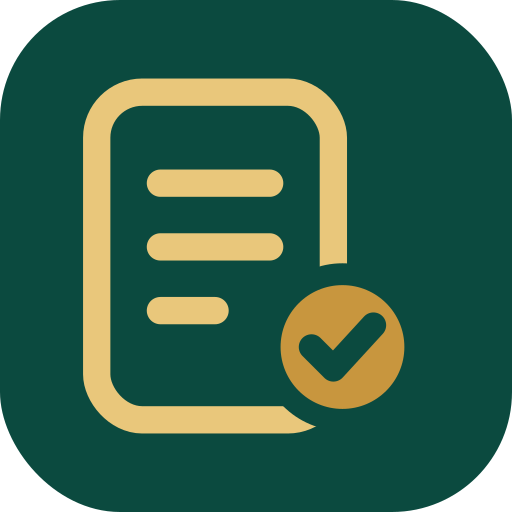
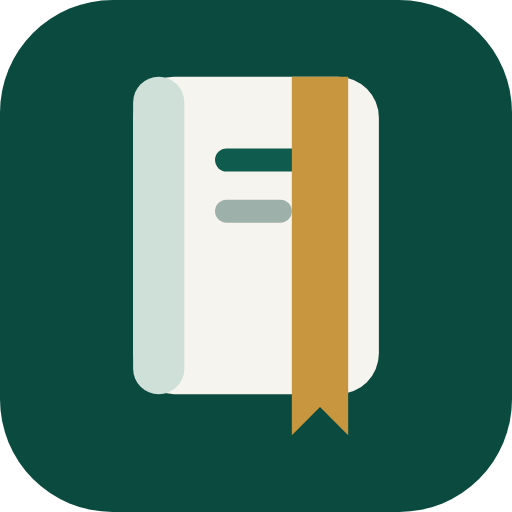
فواتير وديون 1.0.1: أيقونة جديدة، ملف التحميل Fawater-wa-Duyoon.apk، رسالة السعر بالاسم الجديد

diff --git a/debtbook/index.html b/debtbook/index.html
@@ -27,7 +27,7 @@
     <h1>فواتير وديون</h1>
     <p class="lead">بدّل دفتر الورق بتطبيق بيحسبلك كلشي: ديون الزبائن والموزعين بالدولار والليرة السورية والتركية، والفواتير والكشوفات PDF جاهزة للإرسال على واتساب.</p>
     <div class="actions">
-      <a class="btn btn-gold" id="dl" href="https://github.com/yasserninal120/yasserninal120.github.io/releases/latest/download/debtbook.apk">
+      <a class="btn btn-gold" id="dl" href="https://github.com/yasserninal120/yasserninal120.github.io/releases/latest/download/Fawater-wa-Duyoon.apk">
         <svg width="20" height="20" viewBox="0 0 24 24" fill="none" stroke="currentColor" stroke-width="2.2" stroke-linecap="round" stroke-linejoin="round"><path d="M12 4v11M7 10l5 5 5-5M5 20h14"/></svg>
         تحميل للأندرويد
       </a>
@@ -72,8 +72,8 @@
   <p class="section-sub">نزّل التطبيق وجرّبه 3 أيام ببلاش. إذا عجبك، اطلب التفعيل من جوّا التطبيق.</p>
   <div class="grid grid-3">
     <div class="card price"><span class="chip">تجربة</span><div class="amount">3 أيام</div><p>كل الميزات، بدون أي دفع.</p></div>
-    <div class="card price featured"><span class="chip" style="background:var(--tint);color:var(--primary)">الأكثر طلباً</span><div class="amount">سنوي</div><p>سنة كاملة، وبتجدده لما يخلص.</p><a class="btn btn-primary" href="https://wa.me/963956030136?text=%D9%85%D8%B1%D8%AD%D8%A8%D8%A7%D8%8C%20%D8%A8%D8%AF%D9%8A%20%D8%A3%D8%B9%D8%B1%D9%81%20%D8%B3%D8%B9%D8%B1%20%D8%A7%D8%B4%D8%AA%D8%B1%D8%A7%D9%83%20%D8%AF%D9%81%D8%AA%D8%B1%20%D8%A7%D9%84%D8%AF%D9%8A%D9%88%D9%86" target="_blank" rel="noopener">اسأل عن السعر</a></div>
-    <div class="card price"><span class="chip">دائم</span><div class="amount">مدى الحياة</div><p>بتدفع مرة وحدة، وبلا تجديد.</p><a class="btn btn-outline" href="https://wa.me/963956030136?text=%D9%85%D8%B1%D8%AD%D8%A8%D8%A7%D8%8C%20%D8%A8%D8%AF%D9%8A%20%D8%A3%D8%B9%D8%B1%D9%81%20%D8%B3%D8%B9%D8%B1%20%D8%A7%D8%B4%D8%AA%D8%B1%D8%A7%D9%83%20%D8%AF%D9%81%D8%AA%D8%B1%20%D8%A7%D9%84%D8%AF%D9%8A%D9%88%D9%86" target="_blank" rel="noopener">اسأل عن السعر</a></div>
+    <div class="card price featured"><span class="chip" style="background:var(--tint);color:var(--primary)">الأكثر طلباً</span><div class="amount">سنوي</div><p>سنة كاملة، وبتجدده لما يخلص.</p><a class="btn btn-primary" href="https://wa.me/963956030136?text=%D9%85%D8%B1%D8%AD%D8%A8%D8%A7%D8%8C%20%D8%A8%D8%AF%D9%8A%20%D8%A3%D8%B9%D8%B1%D9%81%20%D8%B3%D8%B9%D8%B1%20%D8%A7%D8%B4%D8%AA%D8%B1%D8%A7%D9%83%20%D9%81%D9%88%D8%A7%D8%AA%D9%8A%D8%B1%20%D9%88%D8%AF%D9%8A%D9%88%D9%86" target="_blank" rel="noopener">اسأل عن السعر</a></div>
+    <div class="card price"><span class="chip">دائم</span><div class="amount">مدى الحياة</div><p>بتدفع مرة وحدة، وبلا تجديد.</p><a class="btn btn-outline" href="https://wa.me/963956030136?text=%D9%85%D8%B1%D8%AD%D8%A8%D8%A7%D8%8C%20%D8%A8%D8%AF%D9%8A%20%D8%A3%D8%B9%D8%B1%D9%81%20%D8%B3%D8%B9%D8%B1%20%D8%A7%D8%B4%D8%AA%D8%B1%D8%A7%D9%83%20%D9%81%D9%88%D8%A7%D8%AA%D9%8A%D8%B1%20%D9%88%D8%AF%D9%8A%D9%88%D9%86" target="_blank" rel="noopener">اسأل عن السعر</a></div>
   </div>
   <p class="section-sub" style="margin:14px 0 0;font-size:14px">التفعيل خاص بالجهاز. شوف <a href="privacy/index.html" style="color:var(--primary)">سياسة الخصوصية</a> وشروط الاستخدام جوّا التطبيق.</p>
 </div></section>

diff --git a/debtbook/install/index.html b/debtbook/install/index.html
@@ -23,7 +23,7 @@
   <p class="section-sub">التطبيق بينزل كملف APK من موقعنا، مو من متجر Play. التثبيت بياخد دقيقة، ومنعمله مرة وحدة بس.</p>
 
   <div class="steps">
-    <div class="step"><div><h3>نزّل الملف</h3><p>من صفحة <a href="../index.html" style="color:var(--primary)">فواتير وديون</a> اضغط "تحميل للأندرويد". الملف اسمه <span class="mono">debtbook.apk</span>. افتحه من الإشعار أو من مجلد التنزيلات.</p></div></div>
+    <div class="step"><div><h3>نزّل الملف</h3><p>من صفحة <a href="../index.html" style="color:var(--primary)">فواتير وديون</a> اضغط "تحميل للأندرويد". الملف اسمه <span class="mono">Fawater-wa-Duyoon.apk</span>. افتحه من الإشعار أو من مجلد التنزيلات.</p></div></div>
     <div class="step"><div><h3>اسمح بالتثبيت من هالمصدر</h3><p>أول مرة، أندرويد بيقلّك إنه ما بيسمح بتثبيت تطبيقات من هالمصدر. اضغط <b>الإعدادات</b>، وفعّل <b>السماح من هذا المصدر</b> (Allow from this source)، وارجع.</p></div></div>
     <div class="step"><div><h3>ثبّت</h3><p>اضغط <b>تثبيت</b>. إذا طلعلك تحذير من Play Protect إنه التطبيق مو معروف، اضغط <b>مزيد من التفاصيل</b> وبعدين <b>التثبيت على أي حال</b>. هاد بيطلع لأي تطبيق من برّا المتجر.</p></div></div>
     <div class="step"><div><h3>افتح وجرّب</h3><p>التطبيق بيطلع على الشاشة باسم <b>«فواتير وديون»</b>. عندك 3 أيام تجربة بكل الميزات. لما يعجبك، اطلب التفعيل من شاشة "حسابي" جوّا التطبيق.</p></div></div>
